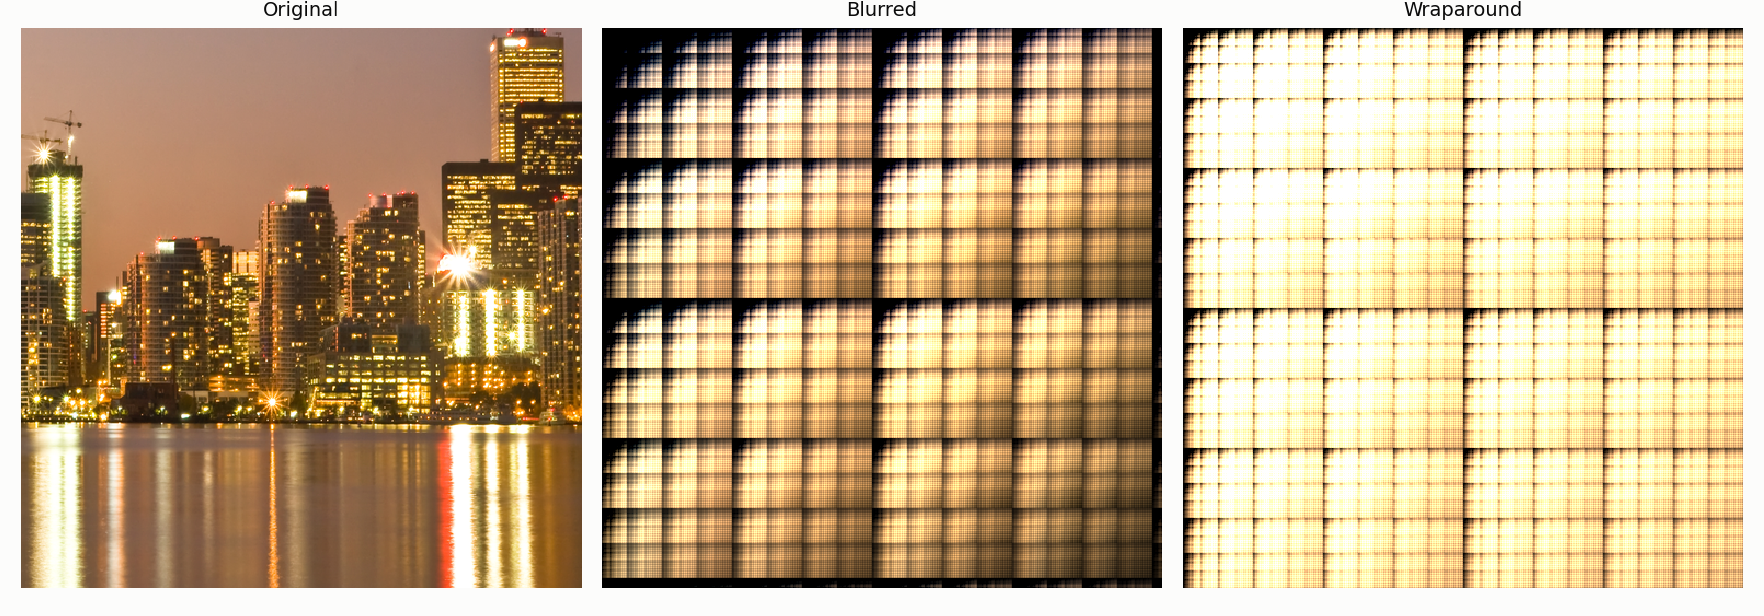
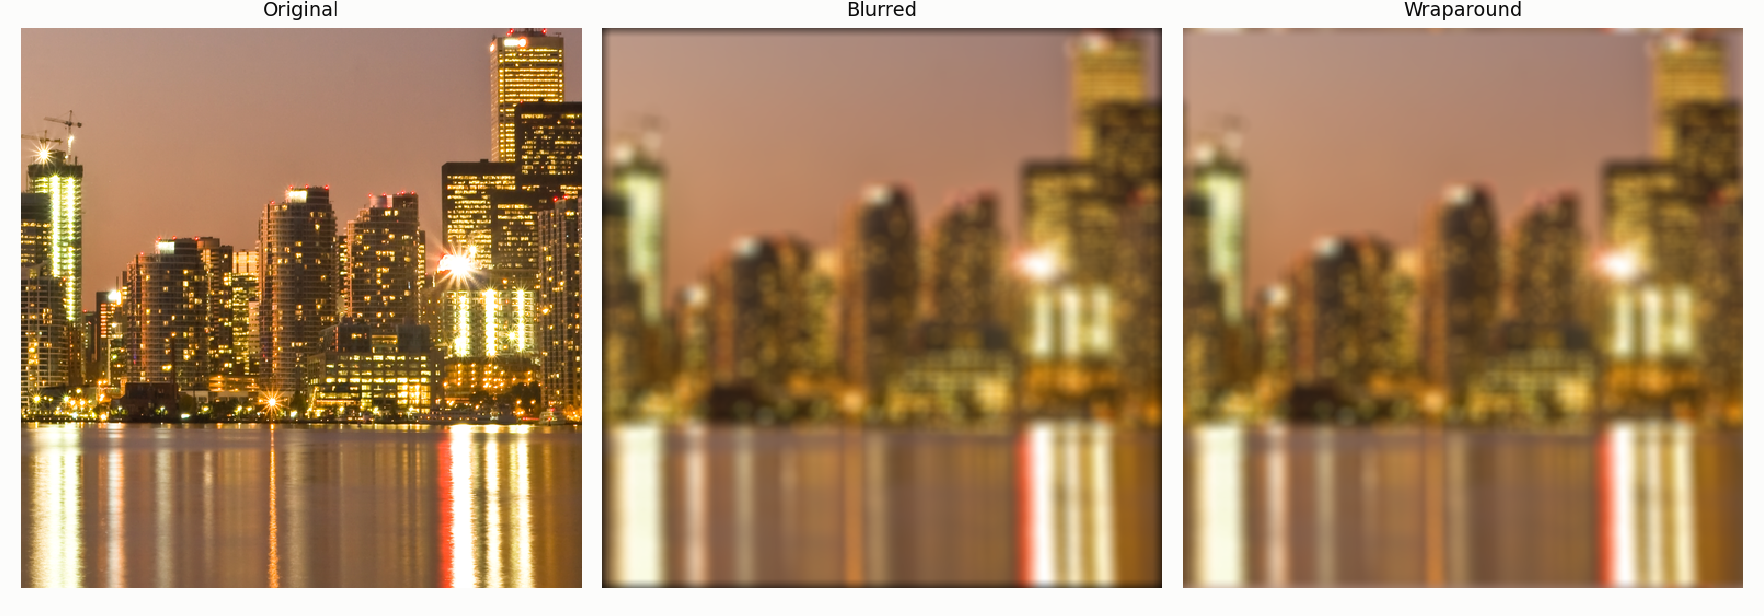
yyy

diff --git a/transforms.py b/transforms.py
@@ -175,6 +175,8 @@ class FFTTransformer(DFTAnalyzer):
     #     # TODO: implement this method
     #     raise NotImplementedError("Implement FFTTransformer.inverse")
     # class FFTTransformer:
+    
+
     name = "fft"
 
     @staticmethod
@@ -182,46 +184,71 @@ class FFTTransformer(DFTAnalyzer):
         bits = int(np.log2(n))
         indices = np.arange(n)
         reversed_indices = np.zeros(n, dtype=int)
+
         for i in range(bits):
             reversed_indices = (reversed_indices << 1) | (indices & 1)
             indices >>= 1
+
         return reversed_indices
 
     def transform(self, x):
+        """
+        Forward FFT using iterative Cooley-Tukey algorithm.
+        """
+
         x = np.asarray(x, dtype=np.complex128)
         N = x.shape[0]
+
         if N <= 1:
             return x
 
-        # Bit reversal permutation
+        # Radix-2 FFT requires power-of-two length
+        if N & (N - 1):
+            raise ValueError(
+                f"Length N={N} must be a power of two for Radix-2 FFT."
+            )
+
+        # Bit-reversal permutation
         rev = self._bit_reverse_indices(N)
         A = x[rev].copy()
 
-        # Iterative Cooley-Tukey
+        # Iterative Cooley-Tukey butterfly
         s = 1
+
         while (1 << s) <= N:
             m = 1 << s
             m2 = m >> 1
+
+            # Twiddle factor for this stage
             w_m = np.exp(-2j * np.pi / m)
-            
             w_powers = w_m ** np.arange(m2)
-            
+
             for k in range(0, N, m):
+
                 t = w_powers * A[k + m2 : k + m]
-                u = A[k : k + m2]
+
+                # IMPORTANT: copy to avoid NumPy view problem
+                u = A[k : k + m2].copy()
+
                 A[k : k + m2] = u + t
                 A[k + m2 : k + m] = u - t
+
             s += 1
 
         return A
 
     def inverse(self, spectrum):
+        """
+        Inverse FFT using conjugate-transform-conjugate method.
+        """
+
         X = np.asarray(spectrum, dtype=np.complex128)
         N = X.shape[0]
+
         if N <= 1:
             return X
-        return np.conj(self.transform(np.conj(X))) / N
 
+        return np.conj(self.transform(np.conj(X))) / N
 # ---------------------------------------------------------------------------
 # BONUS (optional) -- arbitrary-length FFT.
 #

diff --git a/image_conv.py b/image_conv.py
@@ -451,3 +451,6 @@ def main():
 if __name__ == "__main__":
     main()
 #python image_conv.py images/skyline512.png --kernel bokeh --param 9 --engine fft --out-dir outputs/task_b/skyline_bokeh
+#python image_conv.py images/sunset512.png --gray --kernel motion --param 41 --engine fft --out-dir outputs/task_b/sunset_motion 
+#python image_conv.py images/skyline256.png --gray --kernel gaussian --param 21 --engine dft --out-dir outputs/task_b/skyline256_gaussian_dft
+#python image_conv.py images/skyline512.png --benchmark --out-dir outputs/task_b/benchmark
